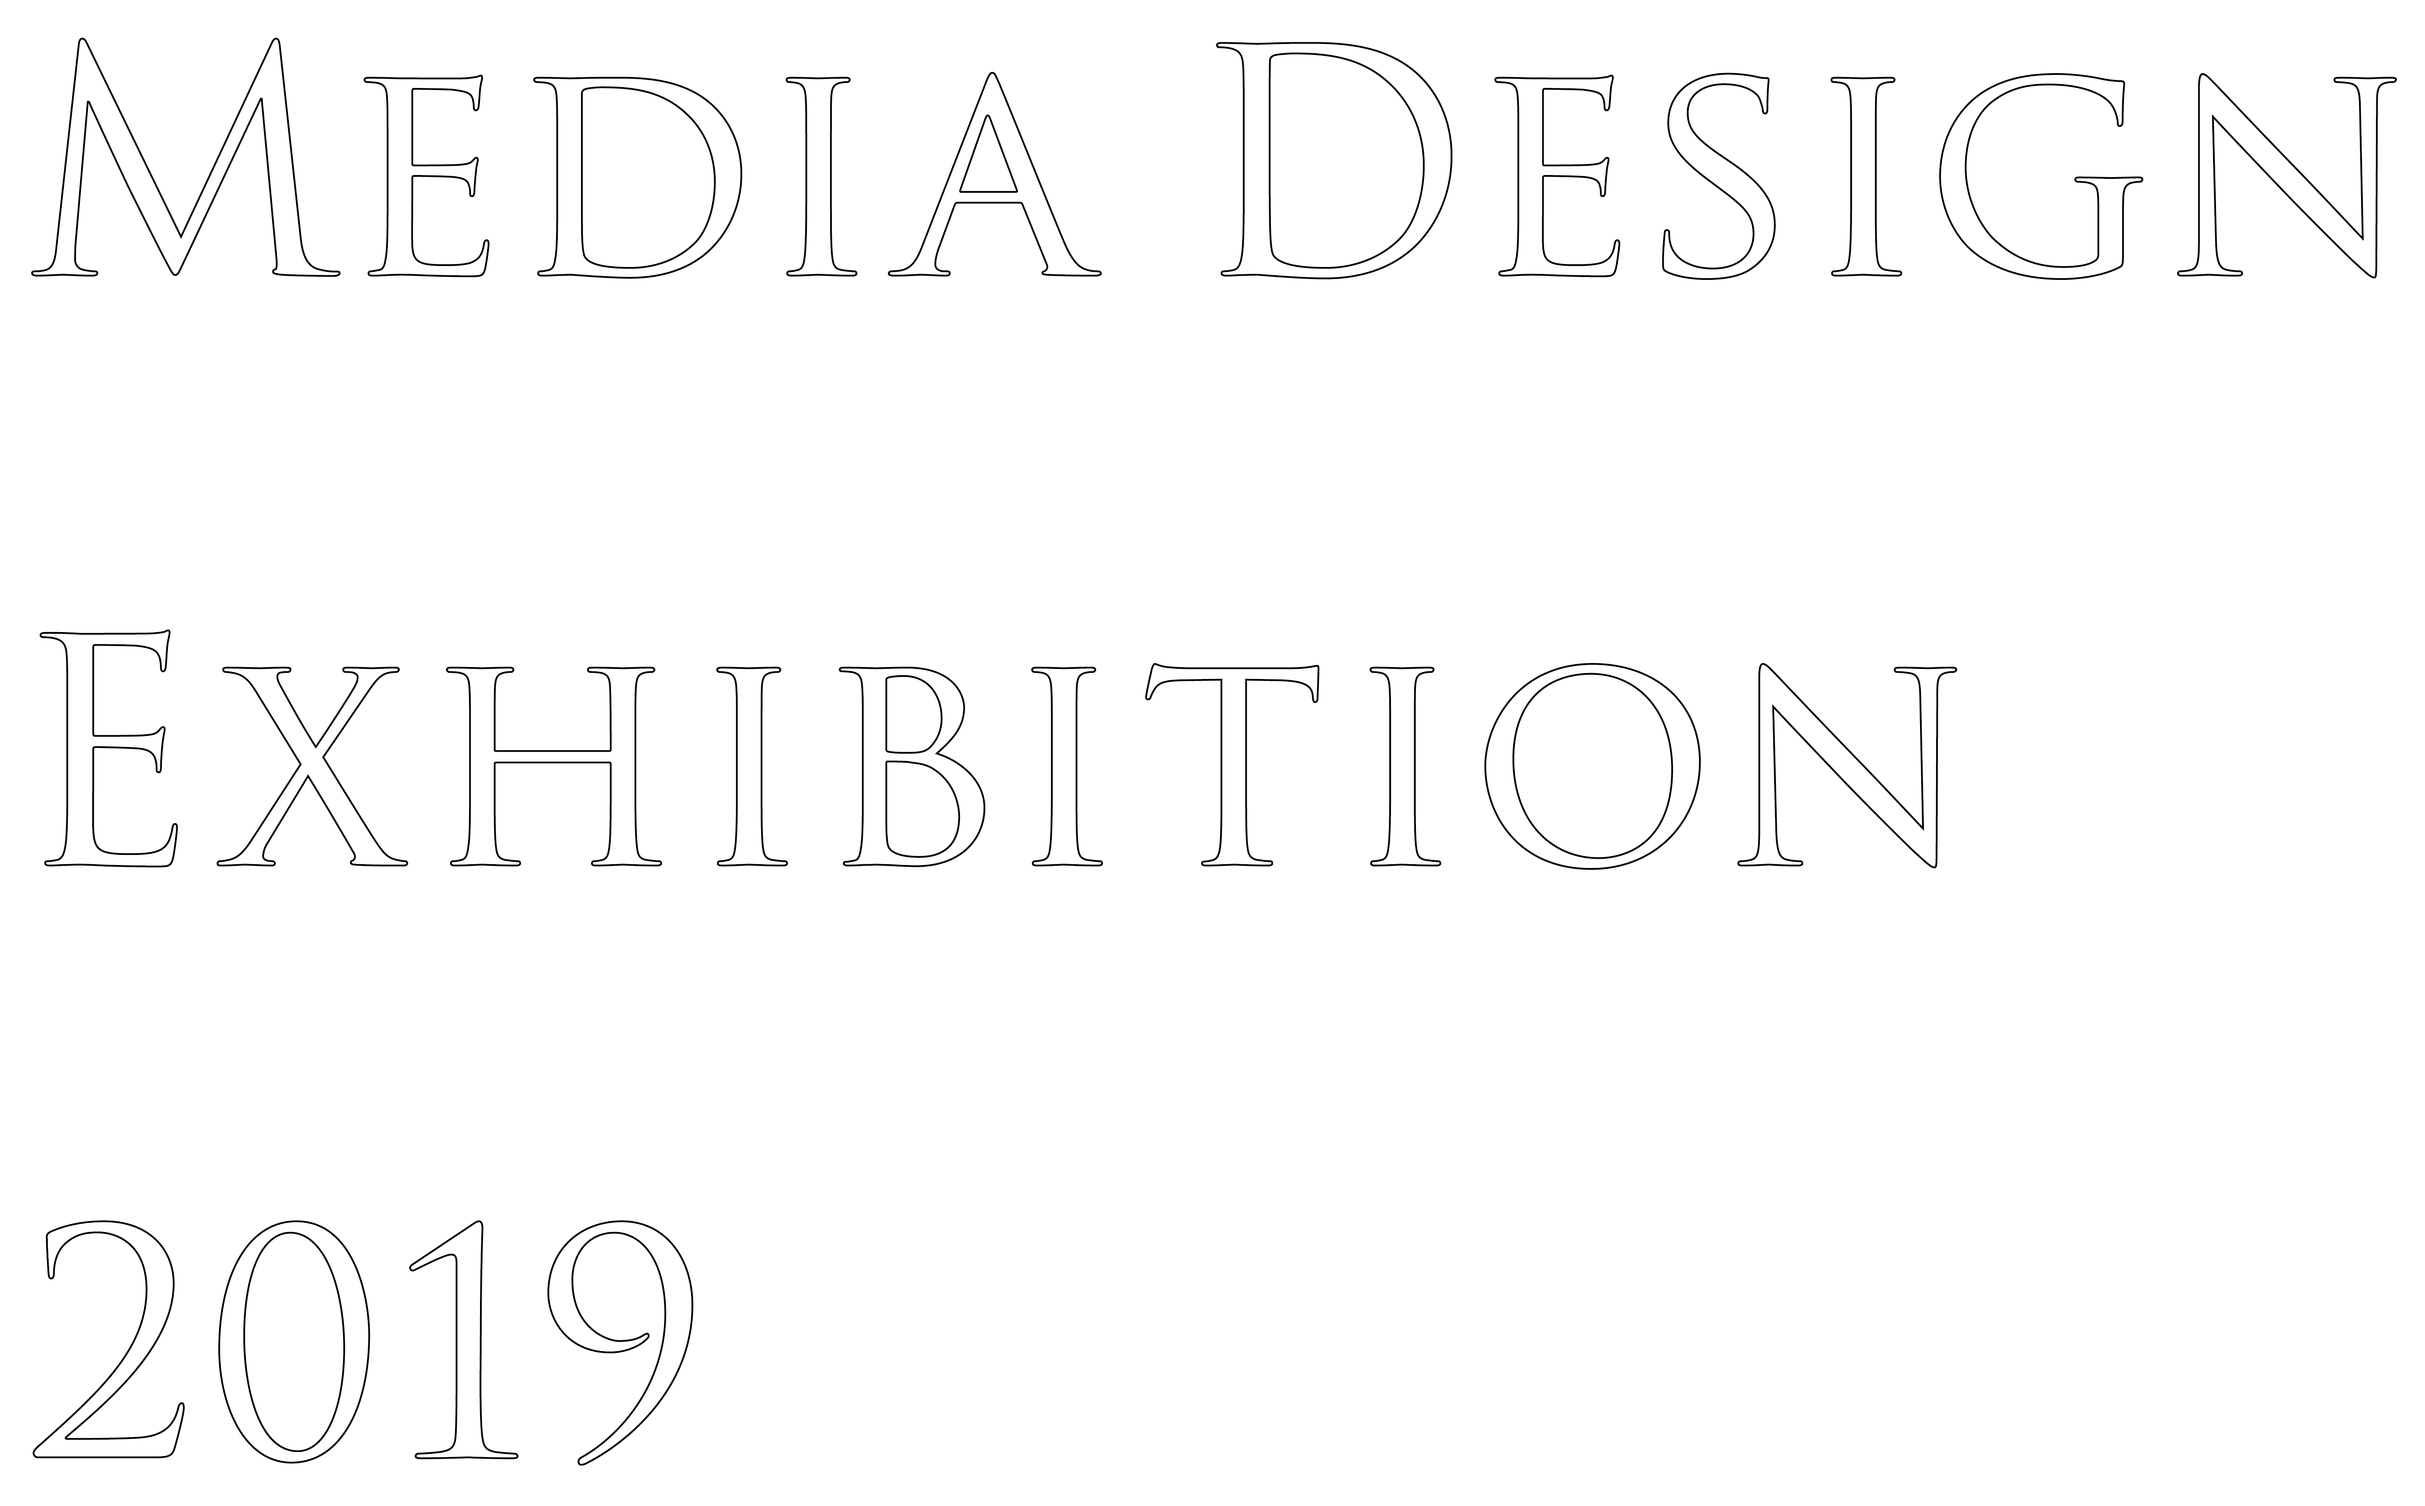
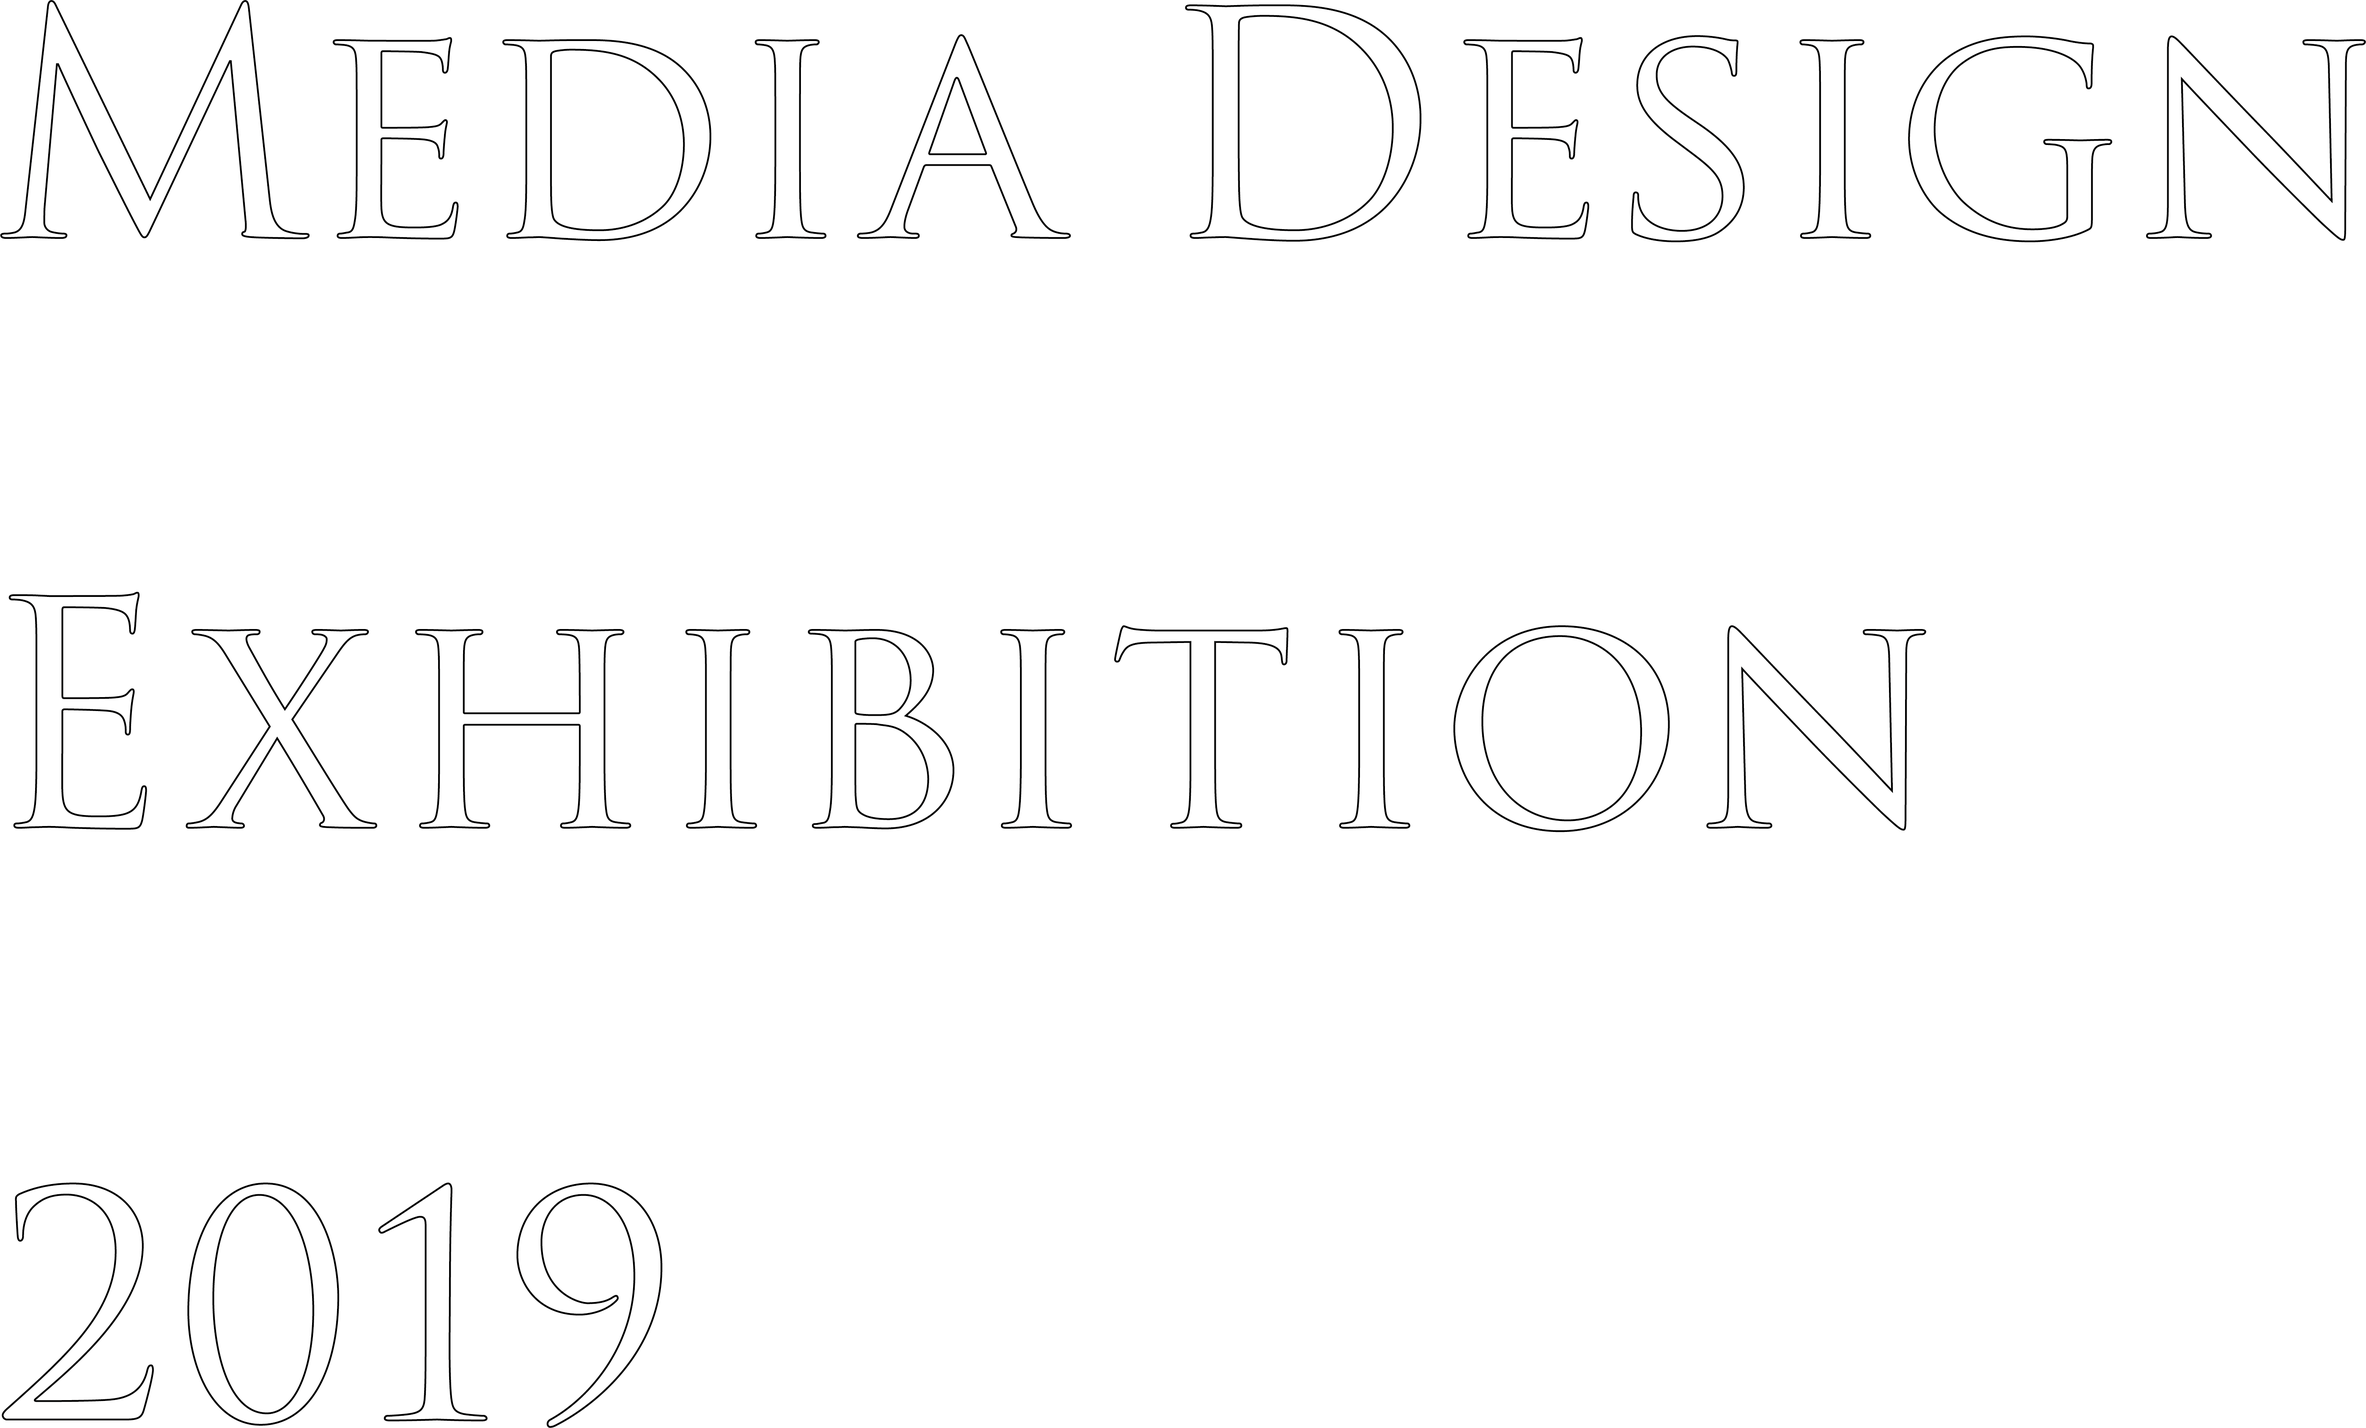
背景画像を指定しようとしています。

diff --git a/media2019/index.html b/media2019/index.html
@@ -26,13 +26,14 @@
 		<div class="sw-container">
 			<div class="intro">
 				<div class="intro-img-container">
-					<img class="inro-img" src="img/mvtext.png" alt="画像：テキスト">
+					<img class="mvtext" src="img/mvtext.png" alt="画像：テキスト">
+					<img class="date" src="img/date.png" alt="画像：テキスト">
 			    </div><!-- /.intro-img-container -->
 			</div><!-- /.intro -->
 		</div>
 
 		<section class="fadein">
-		<div class="about sw-gradient">
+		<div class="about sw-gradient-red">
 			<div class="sw-container-inner">
 				<h1>About</h1>
 					</li>
@@ -48,7 +49,7 @@
 		</section>
 
 		<section class="fadein">
-		<div class="event sw-gradient">
+		<div class="event sw-gradient-yellow">
 			<div class="sw-container-inner">
 				<h1>Artist Talk</h1>
 				<p class="sw-text">日程：12月7日(土)　11:00〜18:15</p>
@@ -59,21 +60,22 @@
 		</section>
 
 		<section class="fadein">
-		<div class="creator sw-gradient">
+		<div class="creator sw-gradient-gray">
 			<div class="sw-container-inner">
 				<h1>Creator</h1>
 				<p class="sw-text">院2年生<br>荊雨泽</p>
 				<p class="sw-text">院1年生<br>後藤弘樹 / 姚為</p>
 				<p class="sw-text">4年生<br>相葉瑛沙 / 新井嵯彩 / 池上絢登 / 板垣元也 / 伊藤美輝 / 上田帆純 / 上野竜治 / 大瀧悠平 / 菊池航太郎 / 倉﨑明里 / 近藤健太 / 坂井華音 / 澤木孝治 / 三城拓己 / 志村磨弥 / 鄭聖哲 / 高井陸 / 中島優希 / 延永弥生 / 原穂乃実 / 伏屋楓 / 矢島実祐 / 山崎友枝 / 山元梨緒 / 栗濱礼尚</p>
-				<p class="sw-text">3年生<br>石川勇哉 / 石田彩峰 / 梅村朋可 / 太田亮 / 加藤大貴 / 加藤知愛 / 近藤亜紗季 / 佐久間俊光 / 佐藤史都 / 佐藤康文 / 鹿野元汰 / 嶋田薫 / 進士玲音 / 高井美沙 / 高橋ｱｲｶｸﾞﾚｰｽ / 中川翔太 / 中西光都 / 中村百花 / 判治珠美 / 樋口竜太郎 / 前田裕崇 / 松澤実玲 / 水野遼平 / 山田絢都 / 吉田正 / 渡会晃大  / 中村隆介</p>
-				<p class="sw-text">2年生<br>家崎夢見 / 鵜飼時生 / 河野桃果 / 菊谷華乃 / 楠木礼奈 / 久原拓海 / 熊谷有美香 / 桑原万緒 / 後藤遼大朗 / 清水真樹 / 白鳥夢穂 / 鈴木彩友美 / 高羅圭都 / 立石万結 / 田中琴音 / 棚橋茉実奈 / 都築太良 / 照井温翔 / 長尾祐希 / 中村凪沙 / 中山智博 / 成瀬記世徳 / 西脇拓巳 / 納富永吉 / 野田大稀 / 菱川優 / 古川真珠子 / 細田真由 / 堀場清歌 / 水谷孝宏 / 水野佑香 / 三苫葉月 / 矢島涼 / 吉田文音</p>
-				<p class="sw-text">1年生<br>浅野結菜 / 石部順之介 / 植田莉帆 / 王景申 / 岡田真子 / 菊川七海香 / 黒宮一茶 / 佐伯ルイ / 島田羽美菜 / 鈴木彩音 / 高木麻帷帷 / 竹内舞乃 / 田中奎悟 / 辻ひかる / 出口暁与 / 中村南美 / 永谷友梨 / 橋本明奈 / 林優衣奈 / 日比野令佳 / 福岡亜季子 / 藤井雄大 / 藤井怜生 / 前野康太 / 松井耀子 / 山本萌子 / 弓場健太朗 / 和田真実 / 安藤智奈実 / 伊藤大悟 / 田崎千帆子 / 伊藤栞梨</p>
+				<p class="sw-text">3年生<br>石川勇哉 / 梅村朋可 / 太田亮 / 加藤大貴 / 近藤亜紗季 / 佐久間俊光 / 佐藤史都 / 鹿野元汰 / 嶋田薫 / 進士玲音 / 高井美沙 / 高橋ｱｲｶｸﾞﾚｰｽ / 中川翔太 / 中西光都 / 中村百花 / 判治珠美 / 樋口竜太郎 / 前田裕崇 / 松澤実玲 / 水野遼平 / 山田絢都 / 吉田正 / 渡会晃大</p>
+				<p class="sw-text">2年生<br>家崎夢見 / 鵜飼時生 / 河野桃果 / 菊谷華乃 / 久原拓海 / 熊谷有美香 / 桑原万緒 / 後藤遼大朗 / 清水真樹 / 白鳥夢穂 / 鈴木彩友美 / 高羅圭都 / 立石万結 / 田中琴音 / 棚橋茉実奈 / 都築太良 / 照井温翔 / 長尾祐希 / 中村凪沙 / 中山智博 / 成瀬記世徳 / 西脇拓巳 / 納富永吉 / 野田大稀 / 菱川優 / 古川真珠子 / 細田真由 / 堀場清歌 / 水谷孝宏 / 水野佑香 / 三苫葉月 / 矢島涼 / 吉田文音</p>
+				<p class="sw-text">1年生Aｸﾗｽ<br>浅野結菜 / 石部隼之介 / 植田莉帆 / 王景申 / 岡田真子 / 菊川七海香 / 黒宮一茶 / 佐伯ルイ / 島田羽美菜 / 鈴木彩音 / 高木麻帷 / 高見拓楽 / 手嶋駿 / 鳥辺菫 / 野口竜矢 / 春名美旺 / 廣澤龍英彦 / 廣澤龍英彦 / 牧野力 / 松川夏子 / 水野安里紗 / 山内裕斗 / 渡辺翔紀</p>
+				<p class="sw-text">1年生Bｸﾗｽ<br>石塚七瀬 / 上田和典 / 梅村奈緒 / 小川真奈 / 木村百花 / 栗田知季 / 近藤亮紀 / 柴田侑奈 / 杉山真央 / 瀬戸口鮎美 / 田財克起 / 田中瑳紀 / 永井陸翔 / 中根美歩 / 中根優真 / 平岩香穂 / 平尾隆季 / 舟橋杏奈 / 本田侑大 / 水谷奈都美 / 村瀬開祐 / 森千歳 / 森川沙也子 / 山崎翔大</p>
 			</div>
 		</div>
 		</section>
 
 		<section class="fadein">
-		<div class="access sw-gradient">
+		<div class="access sw-gradient-yellow">
 			<div class="sw-container-inner">
 				<h1>Access</h1>
 
@@ -90,7 +92,7 @@
 		</section>
 
 		<section class="fadein">
-		<div class="contact sw-gradient">
+		<div class="contact sw-gradient-gray">
 			<div class="sw-container-inner">
 				<h1>Contact</h1>
 				<p class="sw-text">名古屋造形大学<br>メディアデザインコース<br>〒485-8563 愛知県小牧市大草年上坂6004</p>

diff --git a/media2019/css/style.css b/media2019/css/style.css
@@ -41,7 +41,7 @@ body:before {
 	z-index:-1;
 	width: 100%;
 	height: 100vh;
-	background: url(img/mv.png) center no-repeat;
+	background: url(./img/mv.png) center no-repeat;
 	background-size: 100%;
 	background-position: bottom;
   }
@@ -60,7 +60,7 @@ body:before {
 
 /* -- 汎用的なスタイル -- */
 h1 {
-	color: #ffffff;
+	color: #000000;
 	font-size: 24px;
 	line-height: 1.5; /* 36 / 24 */
 	text-indent: 0.5em;
@@ -83,13 +83,31 @@ h1 {
 	max-width: 480px;
 	margin: 0 auto;
 }
-.sw-gradient {
-	background: -moz-linear-gradient(left, #84304A 50%, #D14978);
-	background: -webkit-linear-gradient(left, #84304A 50%, #D14978);
-	background: linear-gradient(to right, #84304A 50%, #D14978);
+.sw-gradient-red {
+	background: -moz-linear-gradient(left, #E5221E 50%, #ffffff);
+	background: -webkit-linear-gradient(left, #E5221E 50%, #ffffff);
+	background: linear-gradient(to right, #E5221E 50%, #ffffff);
 	margin: 0 0 20px;
+	opacity:0.8;
 	/* background-image: url(sankaku.png); */
 }
+.sw-gradient-yellow {
+	background: -moz-linear-gradient(left, #F5B73A 50%, #ffffff);
+	background: -webkit-linear-gradient(left, #F5B73A 50%, #ffffff);
+	background: linear-gradient(to right, #F5B73A 50%, #ffffff);
+	margin: 0 0 20px;
+	opacity:0.8;
+	/* background-image: url(sankaku.png); */
+}
+.sw-gradient-gray {
+	background: -moz-linear-gradient(left, #9B9B9B 50%, #ffffff);
+	background: -webkit-linear-gradient(left, #9B9B9B 50%, #ffffff);
+	background: linear-gradient(to right, #9B9B9B 50%, #ffffff);
+	margin: 0 0 20px;
+	opacity:0.8;
+	/* background-image: url(sankaku.png); */
+}
+
 
 .sw-container-inner {
 	padding: 25px;
@@ -110,10 +128,16 @@ h1 {
 	line-height: 0;
 }
 
-.intro-img {
+.mvtext {
+	width: 90%;
+	padding: 150px 0px 100px 20px;
+	text-align: left;
+}
+
+.date {
 	width: 50%;
-	padding: 100px 0px 100px 0px;
-	text-align: center;
+	text-align: right;
+	padding: 0px 0px 50px 170px;
 }
 /* -- End .intro -- */
 
